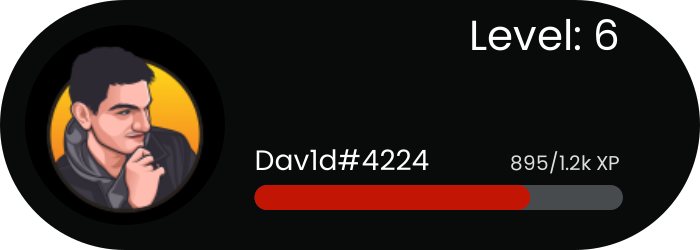
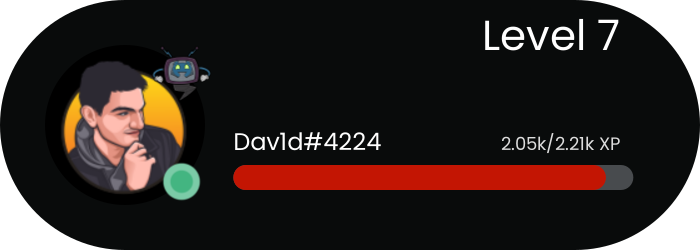
updated user card

Changed region(s): [[0.33, 0.532, 0.93, 0.84], [0.06, 0.168, 0.3, 0.868], [0.66, 0.056, 0.9, 0.224]]

diff --git a/src/utils/functions.js b/src/utils/functions.js
@@ -1,13 +1,13 @@
-const formatDistanceToNow = require('date-fns/formatDistanceToNow');
-const { MessageEmbed, MessageAttachment} = require("discord.js")
-const fs = require("fs")
-const path = require("path")
-const adminIds = require("../ranks.json")
+const formatDistanceToNow = require("date-fns/formatDistanceToNow");
+const { MessageEmbed, MessageAttachment } = require("discord.js");
+const fs = require("fs");
+const path = require("path");
+const adminIds = require("../ranks.json");
 const { createCanvas, loadImage, registerFont } = require("canvas");
 
 const getLevel = xp => Math.max(0, Math.floor(Math.log(xp - 100)));
 
-const getXp = level => 5 / 6 * level * (2 * level * level + 27 * level + 91);
+const getXp = level => (5 / 6) * level * (2 * level * level + 27 * level + 91);
 
 const applyText = (canvas, text) => {
 	const ctx = canvas.getContext("2d");
@@ -39,178 +39,196 @@ const roundRect = function (ctx, x, y, w, h, r = 0) {
 };
 
 const walkSync = (files, fileDir, fileList = []) => {
-    for (const file of files) {
-        const absolutePath = path.join(fileDir, file);
-        if (fs.statSync(absolutePath).isDirectory()) {
-            const dir = fs.readdirSync(absolutePath);
-            walkSync(dir, absolutePath, fileList);
-        } else {
-            fileList.push(path.relative(__dirname, absolutePath));
-        }
-    }
-    return fileList;
-} 
+	for (const file of files) {
+		const absolutePath = path.join(fileDir, file);
+		if (fs.statSync(absolutePath).isDirectory()) {
+			const dir = fs.readdirSync(absolutePath);
+			walkSync(dir, absolutePath, fileList);
+		} else {
+			fileList.push(path.relative(__dirname, absolutePath));
+		}
+	}
+	return fileList;
+};
 
 const cleanRegex = function (str) {
 	return str.replace(/([.?*+^$[\]\\(){}|-])/g, "\\$1");
 };
 
-const ArrayAny = (arr1, arr2) => arr1.some(v => arr2.indexOf(v) >= 0)
+const ArrayAny = (arr1, arr2) => arr1.some(v => arr2.indexOf(v) >= 0);
 
-const hasPermsission = (member, perms) => ArrayAny(member.permissions.toArray(), perms)
+const hasPermsission = (member, perms) => ArrayAny(member.permissions.toArray(), perms);
 
-const modWare = async (msg, args, client, permissions, cb, {twitch} = {}) => {
-    if (hasPermsission(msg.member, permissions)) {
-        await cb(msg, args, client)
-    } else {
-        await msg.channel.send("❌ you don't have permission to use this command")
-    }
-}
+const modWare = async (msg, args, client, permissions, cb, { twitch } = {}) => {
+	if (hasPermsission(msg.member, permissions)) {
+		await cb(msg, args, client);
+	} else {
+		await msg.channel.send("❌ you don't have permission to use this command");
+	}
+};
 
 const resolveUser = (msg, username) => {
-    const memberCache = msg.guild.members.cache;
-    if (/<@!?\d+>/g.test(username)) {
-        return memberCache.get(msg.mentions.users.first().id);
-    }
-    if (memberCache.has(username)) {
-        return memberCache.get(username);
-    }
-    if (/(.*)#(\d{4})/g.test(username)) {
-        return memberCache.find(member => member.user.tag === username);
-    }
-    if (memberCache.find(member => member.nickname === username)) {
-        return memberCache.find(member => member.nickname === username);
-    }
-    if (memberCache.find(member => member.user.username === username)) {
-        return memberCache.find(member => member.user.username === username);
-    }
-    if (memberCache.find(member => member.id === username)) {
-        return memberCache.find(member => member.id === username);
-    }
-    return null;
+	const memberCache = msg.guild.members.cache;
+	if (/<@!?\d+>/g.test(username)) {
+		return memberCache.get(msg.mentions.users.first().id);
+	}
+	if (memberCache.has(username)) {
+		return memberCache.get(username);
+	}
+	if (/(.*)#(\d{4})/g.test(username)) {
+		return memberCache.find(member => member.user.tag === username);
+	}
+	if (memberCache.find(member => member.nickname === username)) {
+		return memberCache.find(member => member.nickname === username);
+	}
+	if (memberCache.find(member => member.user.username === username)) {
+		return memberCache.find(member => member.user.username === username);
+	}
+	if (memberCache.find(member => member.id === username)) {
+		return memberCache.find(member => member.id === username);
+	}
+	return null;
 };
 
 const generateRankCard = async (userData, user) => {
-    const canvas = createCanvas(700, 250);
-    const ctx = canvas.getContext("2d");
-    const xpToNextLevel = getXp(userData.level + 1);
-    const currentXp = userData.xp;
-    const percentDone = currentXp / xpToNextLevel;
-    ctx.fillStyle = "#090b0b";
-    roundRect(ctx, 0, 0, canvas.width, canvas.height, 125);
+	const canvas = createCanvas(700, 250);
+	const ctx = canvas.getContext("2d");
+	const xpToNextLevel = getXp(userData.level + 1);
+	const currentXp = userData.xp;
+	const percentDone = currentXp / xpToNextLevel;
+	ctx.fillStyle = "#090b0b";
+	roundRect(ctx, 0, 0, canvas.width, canvas.height, 125);
 
-    const barWidth = canvas.width / 1.9;
-    const barHeight = 25;
+	const barWidth = canvas.width / 1.75;
+	const barHeight = 25;
 
-    ctx.fillStyle = "#484b4e";
-    roundRect(ctx, canvas.width / 2.75, 185, barWidth, barHeight, barHeight / 2);
-    ctx.fillStyle = "#c31503";
-    roundRect(ctx, canvas.width / 2.75, 185, barWidth * percentDone, barHeight, barHeight / 2);
+	ctx.fillStyle = "#484b4e";
+	roundRect(ctx, canvas.width / 3, 165, barWidth, barHeight, barHeight / 2);
+	ctx.fillStyle = "#c31503";
+	roundRect(ctx, canvas.width / 3, 165, barWidth * percentDone, barHeight, barHeight / 2);
 
-    ctx.font = "28px Poppins";
-
-    ctx.fillStyle = "#ffffff";
-    ctx.fillText(`${user.user.tag}`, canvas.width / 2.75, 170);
-    ctx.font = "20px Poppins";
-    const displayXp = userData.xp > 1000 ? `${(userData.xp / 1000).toFixed(2)}k` : userData.xp;
-    const displayXpToGo = xpToNextLevel > 1000 ? `${(xpToNextLevel / 1000).toFixed(2)}k` : xpToNextLevel;
-    const xpText = `${displayXp}/${displayXpToGo} XP`;
-    const xpTextWidth = ctx.measureText(xpText).width;
-    ctx.fillStyle = "#dddddd";
-    ctx.fillText(xpText, canvas.width - xpTextWidth - 80, 170);
-    ctx.fillStyle = "#ffffff";
-    ctx.font = "42px Poppins";
-    const levelText = `Level ${userData.level+1}`;
-    const levelTextWidth = ctx.measureText(levelText).width;
-    ctx.fillText(levelText, canvas.width - levelTextWidth - 80, 50);
-
-    ctx.fillStyle = "#000000";
-    ctx.beginPath();
-    ctx.arc(125, 125, 100, 0, Math.PI * 2, true);
-    ctx.fill();
-    ctx.clip();
-    const profileUrl = user.user.displayAvatarURL({ format: "png" });
-    const avatar = await loadImage(profileUrl);
-    ctx.drawImage(avatar, 25, 25, 200, 200);
-    return canvas
-    
-
-}
+	ctx.font = "24px Poppins";
+	ctx.fillStyle = "#ffffff";
+	ctx.fillText(`${user.user.tag}`, canvas.width / 3, 150);
+	ctx.font = "18px Poppins";
+	const displayXp = userData.xp > 1000 ? `${(userData.xp / 1000).toFixed(2)}k` : userData.xp;
+	const displayXpToGo = xpToNextLevel > 1000 ? `${(xpToNextLevel / 1000).toFixed(2)}k` : xpToNextLevel;
+	const xpText = `${displayXp}/${displayXpToGo} XP`;
+	const xpTextWidth = ctx.measureText(xpText).width;
+	ctx.fillStyle = "#dddddd";
+	ctx.fillText(xpText, canvas.width - xpTextWidth - 80, 150);
+	ctx.fillStyle = "#ffffff";
+	ctx.font = "42px Poppins";
+	const levelText = `Level ${userData.level + 1}`;
+	const levelTextWidth = ctx.measureText(levelText).width;
+	ctx.fillText(levelText, canvas.width - levelTextWidth - 80, 50);
+	ctx.save();
+	ctx.fillStyle = "#000000";
+	ctx.beginPath();
+	ctx.arc(125, 125, 100 / 1.25, 0, Math.PI * 2, true);
+	ctx.fill();
+	ctx.clip();
+	const profileUrl = user.user.displayAvatarURL({ format: "png" });
+	const avatar = await loadImage(profileUrl);
+	ctx.drawImage(avatar, 25 * 1.75, 25 * 1.75, 200 / 1.25, 200 / 1.25);
+	const discordAdmins = adminIds.discord.developers;
+	const isAdmin = discordAdmins.includes(user.id);
+	statuses = {
+		online: "https://cdn.discordapp.com/emojis/726982918064570400.png?v=1",
+		idle: "https://cdn.discordapp.com/emojis/726982942181818450.png?v=1",
+		dnd: "https://cdn.discordapp.com/emojis/726982954580181063.png?v=1",
+		offline: "https://cdn.discordapp.com/emojis/702707414927015966.png?v=1",
+	};
+	ctx.restore();
+	const iconWidth = 60;
+	const statusUrl = statuses[user.presence.status];
+	const statusImage = await loadImage(statusUrl);
+	ctx.drawImage(statusImage, 25 * 1.75 + 200 / 1.25 - iconWidth / 1.15, 25 * 1.75 + 200 / 1.25 - iconWidth / 1.15, iconWidth, iconWidth);
+	const supporters = adminIds.discord.supporters;
+	const isSupporter = supporters.includes(user.id);
+	if (isAdmin) {
+		const adminLogo = "https://www.disstreamchat.com/logo.png";
+		const adminImage = await loadImage(adminLogo);
+		ctx.drawImage(adminImage, 25 * 1.75 + 200 / 1.25 - iconWidth / 1.15, 25 * 1.75, iconWidth, iconWidth);
+	} else if (isSupporter) {
+		const supporterLogo = "https://icons-for-free.com/iconfiles/png/512/best+bookmark+premium+rating+select+star+icon-1320168257340660520.png";
+		const supporterImage = await loadImage(supporterLogo);
+		ctx.drawImage(supporterImage, 25 * 1.75 + 200 / 1.25 - iconWidth / 1.15, 25 * 1.75, iconWidth, iconWidth);
+	}
+	return canvas;
+};
 
 const adminWare = async (message, args, client, cb) => {
-    const discordAdmins = adminIds.discord.developers
-    if(discordAdmins.includes(message.author.id)){
-        await cb(message, args, client)
-    }else{
-        await message.channel.send("❌ you don't have permission to use this command")
-    }
-
-}
+	const discordAdmins = adminIds.discord.developers;
+	if (discordAdmins.includes(message.author.id)) {
+		await cb(message, args, client);
+	} else {
+		await message.channel.send("❌ you don't have permission to use this command");
+	}
+};
 
 class Command {
-    constructor(func, description, usage, category, perms) {
-        if (!perms || perms.length === 0) {
-            this.perms = []
-            this.isMod = false
-            this.execute = func
-        } else {
-            this.perms = perms
-            this.isMod = true
-            this.execute = (msg, args, client, config) => modWare(msg, args, client, config, func)
-        }
-        this.helptext = {
-            description,
-            usage,
-            category
-        }
-    }
+	constructor(func, description, usage, category, perms) {
+		if (!perms || perms.length === 0) {
+			this.perms = [];
+			this.isMod = false;
+			this.execute = func;
+		} else {
+			this.perms = perms;
+			this.isMod = true;
+			this.execute = (msg, args, client, config) => modWare(msg, args, client, config, func);
+		}
+		this.helptext = {
+			description,
+			usage,
+			category,
+		};
+	}
 }
 
-const embedJSON = (obj, title="") => {
-    const embed = new MessageEmbed()
-        .setTitle(title)
-        .setFooter("JSON embedded")
-    for(const key of Object.keys(obj)){
-        const value = obj[key]
-        if(value instanceof Array){
-            embed.addField(key, value.join("\n"))
-        }else{
-            embed.addField(key, value)
-        }
-    }
-}
+const embedJSON = (obj, title = "") => {
+	const embed = new MessageEmbed().setTitle(title).setFooter("JSON embedded");
+	for (const key of Object.keys(obj)) {
+		const value = obj[key];
+		if (value instanceof Array) {
+			embed.addField(key, value.join("\n"));
+		} else {
+			embed.addField(key, value);
+		}
+	}
+};
 
 module.exports = {
-    isNumeric: (value) => {
-        return /^-?\d+[.\,]?\d*$/.test(value);
-    },
-    
-    randomChoice: (arr) => {
-        return arr[Math.floor(arr.length * Math.random())];
-    },
+	isNumeric: value => {
+		return /^-?\d+[.\,]?\d*$/.test(value);
+	},
 
-    formatFromNow: (time) => formatDistanceToNow(time, { addSuffix: true }),
-    randomString: len => [...Array(len)].map(i => (~~(Math.random() * 36)).toString(36)).join(''),
+	randomChoice: arr => {
+		return arr[Math.floor(arr.length * Math.random())];
+	},
 
-    capitalize: s => s.charAt(0).toUpperCase() + s.slice(1),
-    ArrayAny,
-    hasPermsission,
-    walkSync,
-    Command,
-    modWare,
-    adminWare,
-    resolveUser,
-    Random: (min, max) => {
-        if(!max && min){
-            return this.Random(0, min)
-        }
-        return Math.random() * (max - min) + min;
-    },
-    generateRankCard,
-    getLevel,
-    getXp,
-    roundRect,
-    applyText,
-    cleanRegex,
-    hoursToMillis: hrs => hrs*3600000
-}
+	formatFromNow: time => formatDistanceToNow(time, { addSuffix: true }),
+	randomString: len => [...Array(len)].map(i => (~~(Math.random() * 36)).toString(36)).join(""),
+
+	capitalize: s => s.charAt(0).toUpperCase() + s.slice(1),
+	ArrayAny,
+	hasPermsission,
+	walkSync,
+	Command,
+	modWare,
+	adminWare,
+	resolveUser,
+	Random: (min, max) => {
+		if (!max && min) {
+			return this.Random(0, min);
+		}
+		return Math.random() * (max - min) + min;
+	},
+	generateRankCard,
+	getLevel,
+	getXp,
+	roundRect,
+	applyText,
+	cleanRegex,
+	hoursToMillis: hrs => hrs * 3600000,
+};
